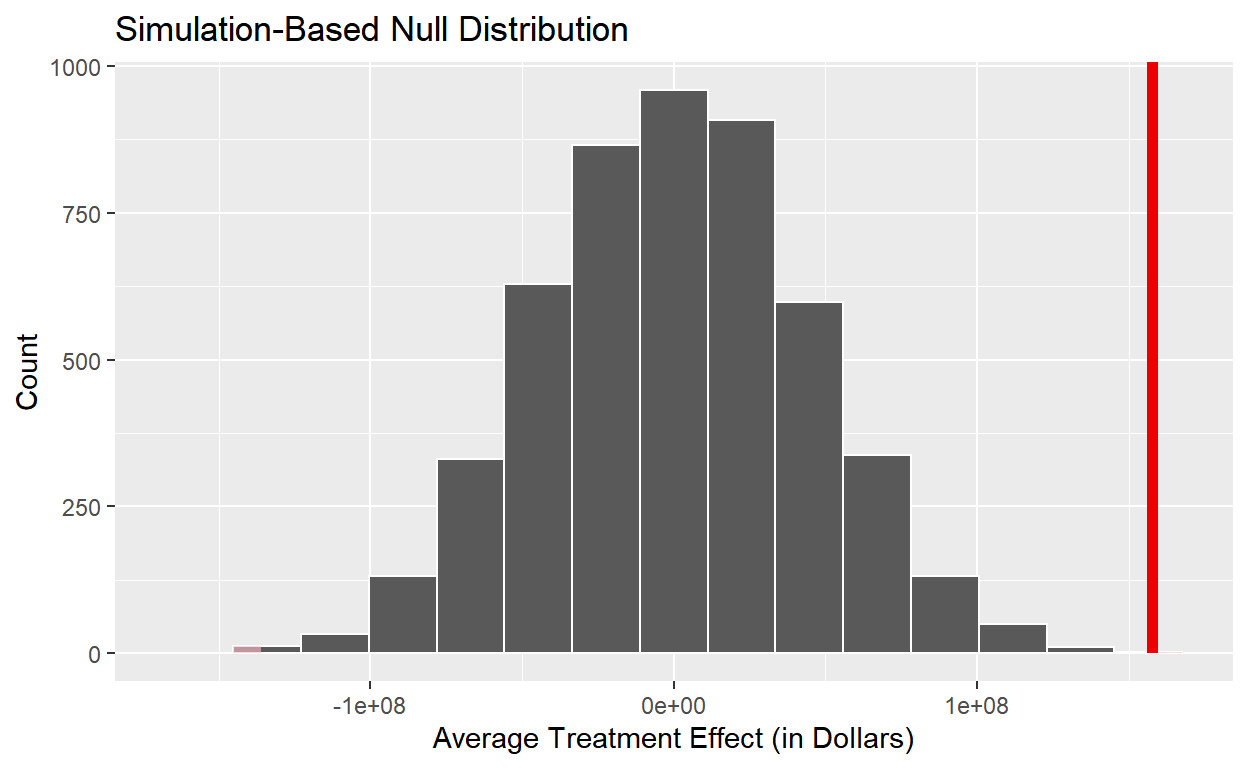
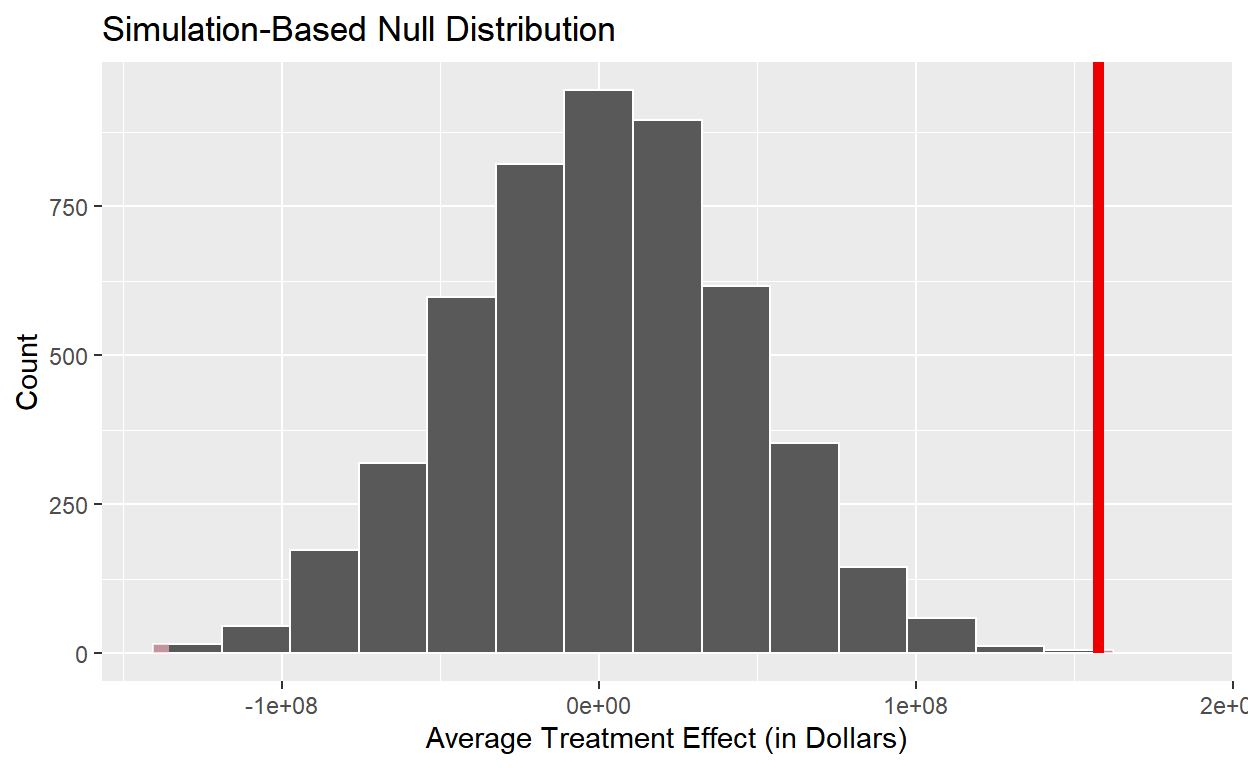
xx

diff --git a/index.html b/index.html
@@ -1720,7 +1720,9 @@ code span.wa { color: #5e5e5e; font-style: italic; } /* Warning */
 <p>The p-value for this average treatment effect is nearly zero, which is less than an alpha-level of 0.1, 0.05, and 0.01. I reject the null hypothesis that sequel films whose first film was well-received do not have a difference in revenue from sequel films whose first film was poorly-received. This means there is evidence for my original hypothesis, which states that well-received original films produce more successful sequels.</p>
 <div class="layout-chunk" data-layout="l-body">
 <div class="sourceCode">
-<pre class="sourceCode r"><code class="sourceCode r"><span><span class='va'>observed_ate</span> <span class='op'>&lt;-</span> <span class='va'>first_second_third</span><span class='op'>|&gt;</span></span>
+<pre class="sourceCode r"><code class="sourceCode r"><span><span class='fu'><a href='https://rdrr.io/r/base/Random.html'>set.seed</a></span><span class='op'>(</span><span class='fl'>02138</span><span class='op'>)</span></span>
+<span></span>
+<span><span class='va'>observed_ate</span> <span class='op'>&lt;-</span> <span class='va'>first_second_third</span><span class='op'>|&gt;</span></span>
 <span>  <span class='fu'><a href='https://infer.tidymodels.org/reference/specify.html'>specify</a></span><span class='op'>(</span>formula <span class='op'>=</span> <span class='va'>sequels_revenue</span> <span class='op'>~</span> <span class='va'>first_film_gt7</span><span class='op'>)</span><span class='op'>|&gt;</span></span>
 <span>  <span class='fu'><a href='https://infer.tidymodels.org/reference/calculate.html'>calculate</a></span><span class='op'>(</span>stat <span class='op'>=</span> <span class='st'>"diff in means"</span>, order <span class='op'>=</span> <span class='fu'><a href='https://rdrr.io/r/base/c.html'>c</a></span><span class='op'>(</span><span class='st'>"Yes"</span>, <span class='st'>"No"</span><span class='op'>)</span><span class='op'>)</span></span>
 <span></span>
@@ -1800,7 +1802,9 @@ code span.wa { color: #5e5e5e; font-style: italic; } /* Warning */
 <p>I was worried about confounding variables in my data set. From the following regression, we can see that the R-squared value for this data is <em>very</em> low at only 0.068. This means only 6.8% of the variation in the data is explained by the regression model which includes only whether the first film in a series has an IMDb score of 7 or greater.</p>
 <div class="layout-chunk" data-layout="l-body">
 <div class="sourceCode">
-<pre class="sourceCode r"><code class="sourceCode r"><span><span class='va'>lm_fst</span> <span class='op'>&lt;-</span> <span class='fu'><a href='https://rdrr.io/r/stats/lm.html'>lm</a></span><span class='op'>(</span><span class='va'>sequels_revenue</span> <span class='op'>~</span> <span class='va'>first_film_gt7</span>, data <span class='op'>=</span> <span class='va'>first_second_third</span><span class='op'>)</span></span>
+<pre class="sourceCode r"><code class="sourceCode r"><span><span class='fu'><a href='https://rdrr.io/r/base/Random.html'>set.seed</a></span><span class='op'>(</span><span class='fl'>02138</span><span class='op'>)</span></span>
+<span></span>
+<span><span class='va'>lm_fst</span> <span class='op'>&lt;-</span> <span class='fu'><a href='https://rdrr.io/r/stats/lm.html'>lm</a></span><span class='op'>(</span><span class='va'>sequels_revenue</span> <span class='op'>~</span> <span class='va'>first_film_gt7</span>, data <span class='op'>=</span> <span class='va'>first_second_third</span><span class='op'>)</span></span>
 <span></span>
 <span><span class='va'>glance_lm_fst</span> <span class='op'>&lt;-</span> <span class='fu'><a href='https://generics.r-lib.org/reference/glance.html'>glance</a></span><span class='op'>(</span><span class='va'>lm_fst</span><span class='op'>)</span><span class='op'>|&gt;</span></span>
 <span>  <span class='fu'><a href='https://dplyr.tidyverse.org/reference/select.html'>select</a></span><span class='op'>(</span><span class='va'>r.squared</span><span class='op'>)</span></span>
@@ -1861,7 +1865,9 @@ code span.wa { color: #5e5e5e; font-style: italic; } /* Warning */
 <p>Including sequels_gt7, which tells whether the sequel film has an IMDb score greater than or equal to 7, increases the adjusted R-squared value to 0.254. This means that 25.4% of the variation in the data is explained by the model. Additionally, the inclusion of sequels_gt7 in the model causes the p-value of the original ATE to increase to 0.079. <em>This means we can no longer reject the null hypothesis stating that there is no difference in revenues for sequel films whose original films have IMDb scores greater than or equal to 7 and those whose original films have IMDb scores less than 7 at an alpha-level of 0.05, suggesting that sequels_gt7 is a confounding variable.</em> Although the adjusted R-squared value for this model is still small, I would still say that my hypothesis has been weakened.</p>
 <div class="layout-chunk" data-layout="l-body">
 <div class="sourceCode">
-<pre class="sourceCode r"><code class="sourceCode r"><span><span class='va'>lm_multiple</span> <span class='op'>&lt;-</span> <span class='fu'><a href='https://rdrr.io/r/stats/lm.html'>lm</a></span><span class='op'>(</span><span class='va'>sequels_revenue</span> <span class='op'>~</span> <span class='va'>first_film_gt7</span> <span class='op'>+</span> <span class='va'>sequels_gt7</span>, data <span class='op'>=</span> <span class='va'>first_second_third</span><span class='op'>)</span></span>
+<pre class="sourceCode r"><code class="sourceCode r"><span><span class='fu'><a href='https://rdrr.io/r/base/Random.html'>set.seed</a></span><span class='op'>(</span><span class='fl'>02138</span><span class='op'>)</span></span>
+<span></span>
+<span><span class='va'>lm_multiple</span> <span class='op'>&lt;-</span> <span class='fu'><a href='https://rdrr.io/r/stats/lm.html'>lm</a></span><span class='op'>(</span><span class='va'>sequels_revenue</span> <span class='op'>~</span> <span class='va'>first_film_gt7</span> <span class='op'>+</span> <span class='va'>sequels_gt7</span>, data <span class='op'>=</span> <span class='va'>first_second_third</span><span class='op'>)</span></span>
 <span></span>
 <span><span class='va'>glance_lm_multiple</span> <span class='op'>&lt;-</span> <span class='fu'><a href='https://generics.r-lib.org/reference/glance.html'>glance</a></span><span class='op'>(</span><span class='va'>lm_multiple</span><span class='op'>)</span><span class='op'>|&gt;</span></span>
 <span>  <span class='fu'><a href='https://dplyr.tidyverse.org/reference/select.html'>select</a></span><span class='op'>(</span><span class='va'>adj.r.squared</span><span class='op'>)</span></span>
